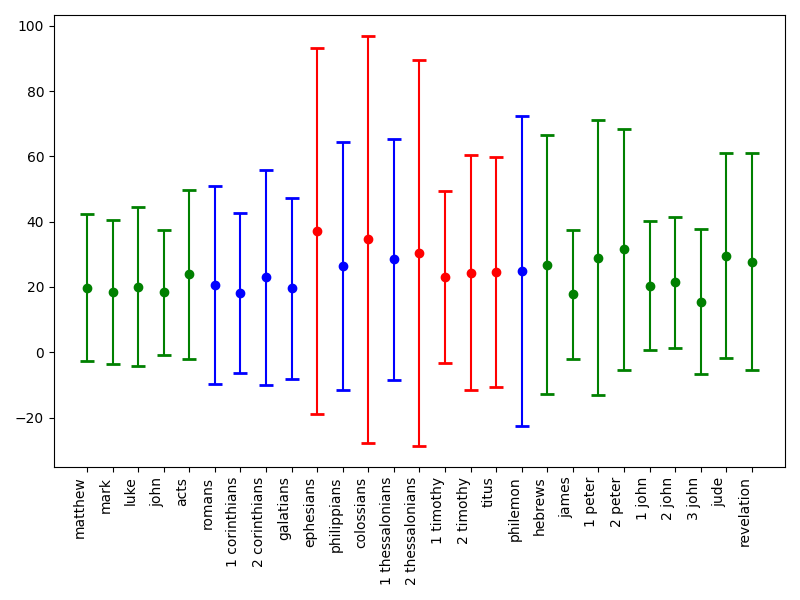
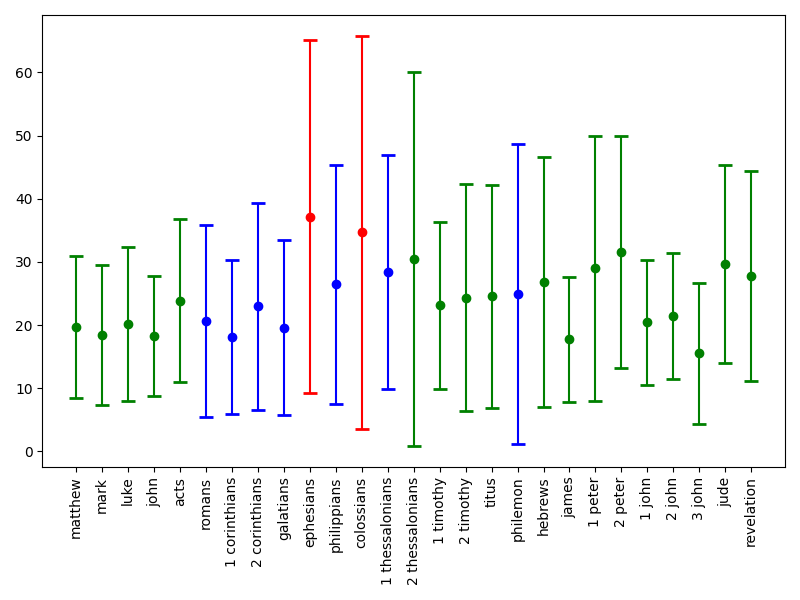
new error bar graph with corrected error and label placement

diff --git a/dendrogram_utils.py b/dendrogram_utils.py
@@ -11,12 +11,14 @@ def save_dendrogram(filename_elements):
 # Generates a dendrogram for the given data.
 # Use plt.show() to display it
 # or plt.gca() to get its Axes and modify or analyze it.
-# Returns nothing.
 #
 # book_to_normalized_unit_frequency: a 2d List[book index][unit index]
 #   where the book index matches the index of the same book in book_titles
 #   and the unit indexes match across books
 # book_titles: Iterable of book titles
+#
+# Returns a dictionary of data computed to render the dendrogram,
+# containing keys 'color_list', 'icoord', 'dcoord', 'ivl', 'leaves', and 'leaves_color_list'.
 def generate_dendrogram(book_to_normalized_unit_frequency, book_titles, linkage_algorithm, distance_metric):
   Z = linkage(book_to_normalized_unit_frequency, method=linkage_algorithm, metric=distance_metric)
 
@@ -24,7 +26,7 @@ def generate_dendrogram(book_to_normalized_unit_frequency, book_titles, linkage_
   plt.title('Hierarchical Clustering Dendrogram')
   plt.xlabel('Book')
   plt.ylabel('Distance')
-  dendrogram(
+  dendrogram_data_structures = dendrogram(
     Z,
     leaf_rotation=90,  # rotates the x axis labels
     leaf_font_size=8,  # font size for the x axis labels
@@ -36,6 +38,7 @@ def generate_dendrogram(book_to_normalized_unit_frequency, book_titles, linkage_
     x.set_color(get_label_color(x.get_text()))
 
   fig.tight_layout()
+  return dendrogram_data_structures # TODO check whether leaf colors actually got updated
 
 # A valid dendrogram groups all of paul's uncontested books together without any of
 # those books that definitely aren't his in between.

diff --git a/error_bar_sentence_lengths.py b/error_bar_sentence_lengths.py
@@ -10,7 +10,7 @@ unsorted_book_to_sentence_lengths = read_sentence_lengths()
 book_to_sentence_lengths = dict([(b, unsorted_book_to_sentence_lengths[b]) for b in BOOK_NAMES])
 xs = np.array(list(book_to_sentence_lengths.keys()))
 ys = np.array([fmean(lengths) for lengths in book_to_sentence_lengths.values()])
-es = np.array([stdev(lengths) * 2 for lengths in book_to_sentence_lengths.values()]) # TODO check math -- want uneven error?
+es = np.array([stdev(lengths) for lengths in book_to_sentence_lengths.values()])
 colors = [get_label_color(book) for book in book_to_sentence_lengths]
 
 unique_figure_id = 1
@@ -20,6 +20,6 @@ ax = fig.add_subplot()
 for x, y, err, color in zip(xs, ys, es, colors):
   ax.errorbar(x, y, err, capsize=5, capthick=2, color=color, marker='o')
 
-plt.xticks(rotation=90, ha='right')
+plt.xticks(rotation='vertical')
 fig.tight_layout()
 plt.show()

diff --git a/ngram.py b/ngram.py
@@ -6,11 +6,11 @@ import matplotlib.pyplot as plt
 
 # TODO feel free to change all these parameters
 NGRAM_SIZE = 3
-NUM_NGRAMS_WANTED = 85 # maximum reasonable value is 25 ^ NGRAM_SIZE
-MERGE_WORDS = False # Whether to remove the spaces in the normalized text.
+NUM_NGRAMS_WANTED = 30 # maximum reasonable value is 25 ^ NGRAM_SIZE
+MERGE_WORDS = True # Whether to remove the spaces in the normalized text.
 NORMALIZATION_METHOD = 'zscore' # 'zscore' or 'simple'
-LINKAGE_ALGORITHM = 'weighted'
-DISTANCE_METRIC = 'canberra'
+LINKAGE_ALGORITHM = 'complete'
+DISTANCE_METRIC = 'euclidean'
 
 book_to_text = read_normalized_texts()
 if MERGE_WORDS:

diff --git a/general_utils.py b/general_utils.py
@@ -1,9 +1,9 @@
 UNCONTESTED_PAUL_BOOKS = ["romans", "1 corinthians", "2 corinthians", "galatians", "philippians", "1 thessalonians", "philemon"]
 
-CONTESTED_PAUL_BOOKS = ["ephesians", "colossians", "2 thessalonians", "1 timothy", "2 timothy", "titus"]
+CONTESTED_PAUL_BOOKS = ["ephesians", "colossians"]
 
 TEXT_DIRECTORY = 'opengnt_books'
-GRAMMAR_DIRECTORY = 'opengnt_simple_grammar' # opengnt_grammar or opengnt_simple_grammar
+GRAMMAR_DIRECTORY = 'opengnt_grammar' # opengnt_grammar or opengnt_simple_grammar
 NORMALIZED_FILE_SUFFIX = '-norm'
 FILE_TYPE_SUFFIX = '.txt'
 

diff --git a/function_word.py b/function_word.py
@@ -5,7 +5,7 @@ from dendrogram_utils import generate_dendrogram, check_dendrogram_valid
 import matplotlib.pyplot as plt
 
 # TODO feel free to change all these parameters
-NUM_FUNCTION_WORDS_WANTED = 40
+NUM_FUNCTION_WORDS_WANTED = 10
 NORMALIZATION_METHOD = 'simple' # 'zscore' or 'simple'
 LINKAGE_ALGORITHM = 'ward'
 DISTANCE_METRIC = 'euclidean'

diff --git a/grammar.py b/grammar.py
@@ -8,9 +8,9 @@ import matplotlib.pyplot as plt
 
 # TODO feel free to change all these parameters
 NGRAM_SIZE = 3
-NUM_NGRAMS_WANTED = 10
+NUM_NGRAMS_WANTED = 30
 NORMALIZATION_METHOD = 'simple' # 'zscore' or 'simple'
-LINKAGE_ALGORITHM = 'ward'
+LINKAGE_ALGORITHM = 'complete'
 DISTANCE_METRIC = 'euclidean'
 
 book_to_text = read_parts_of_speech()
